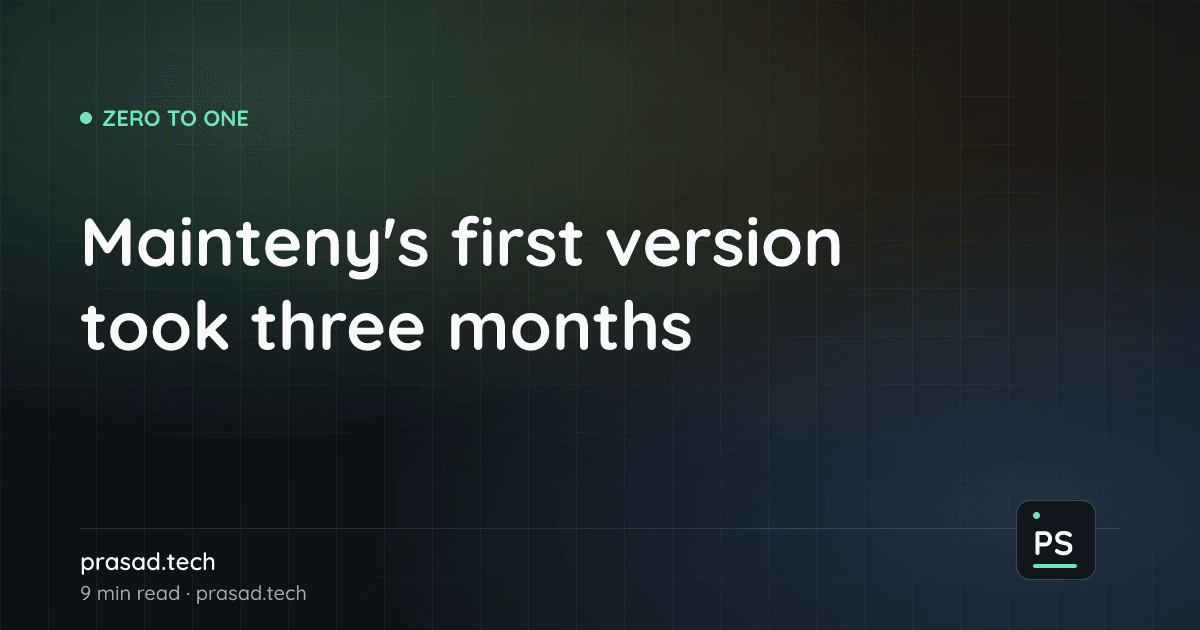
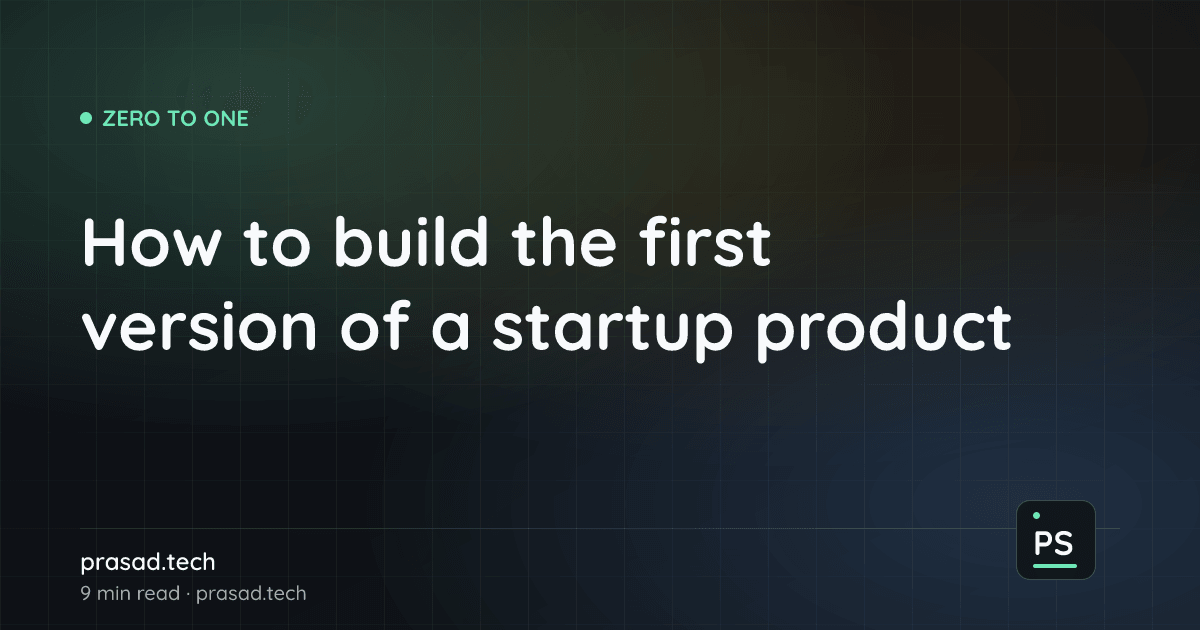
Refine portfolio OG and blog visuals

Changed region(s): [[0.0617, 0.4825, 0.8633, 0.573], [0.0617, 0.3317, 0.7092, 0.4524], [0.185, 0.1508, 0.2158, 0.181]]

diff --git a/src/styles/global.css b/src/styles/global.css
@@ -1387,6 +1387,12 @@ img {
   font-size: 0.85rem;
 }
 
+.mermaid-figure pre.mermaid svg {
+  width: max(720px, 100%) !important;
+  max-width: none !important;
+  height: auto;
+}
+
 .proof-note {
   max-width: 780px;
   margin: 22px 0 0;
@@ -1919,6 +1925,58 @@ img {
   grid-template-rows: minmax(1.55rem, auto) minmax(4.15rem, auto) 1fr;
   align-content: start;
   gap: 8px;
+}
+
+.animated-flow .visual-step::after {
+  content: "";
+  position: absolute;
+  right: 16px;
+  bottom: 0;
+  left: 16px;
+  height: 2px;
+  border-radius: 999px;
+  background: linear-gradient(90deg, transparent, var(--green), transparent);
+  opacity: 0;
+  transform: translateX(-80%);
+  animation: visual-step-scan 5.6s ease-in-out infinite;
+}
+
+.animated-flow .visual-step:nth-child(2)::after {
+  animation-delay: 260ms;
+}
+
+.animated-flow .visual-step:nth-child(3)::after {
+  animation-delay: 520ms;
+}
+
+.animated-flow .visual-step:nth-child(4)::after {
+  animation-delay: 780ms;
+}
+
+.animated-flow .visual-step:nth-child(5)::after {
+  animation-delay: 1040ms;
+}
+
+@keyframes visual-step-scan {
+  0%,
+  42% {
+    opacity: 0;
+    transform: translateX(-80%);
+  }
+
+  52% {
+    opacity: 0.72;
+  }
+
+  74% {
+    opacity: 0;
+    transform: translateX(80%);
+  }
+
+  100% {
+    opacity: 0;
+    transform: translateX(80%);
+  }
 }
 
 .visual-step-label {
@@ -2737,6 +2795,11 @@ img {
     grid-template-rows: auto;
   }
 
+  .animated-flow .visual-step::after {
+    right: 14px;
+    left: 14px;
+  }
+
   .proof-item {
     grid-template-columns: 1fr;
   }
@@ -2785,6 +2848,13 @@ img {
 
   .image-lightbox__caption {
     font-size: 0.82rem;
+  }
+}
+
+@media (prefers-reduced-motion: reduce) {
+  .animated-flow .visual-step::after {
+    animation: none;
+    opacity: 0;
   }
 }
 

diff --git a/CONTENT_GUIDE.md b/CONTENT_GUIDE.md
@@ -88,7 +88,7 @@ Assume every post is read by a VC, competitor, future employer, recruiter, custo
 
 Publish:
 - Founder judgment, taste, and operating discipline.
-- Technical depth that explains tradeoffs without exposing private systems.
+- Technical depth that explains tradeoffs while staying inside public boundaries.
 - Customer-safe scenes that reveal buyer pain without identifying the buyer.
 - Public artifacts such as PRs, public issues, public docs, and already-approved metrics.
 